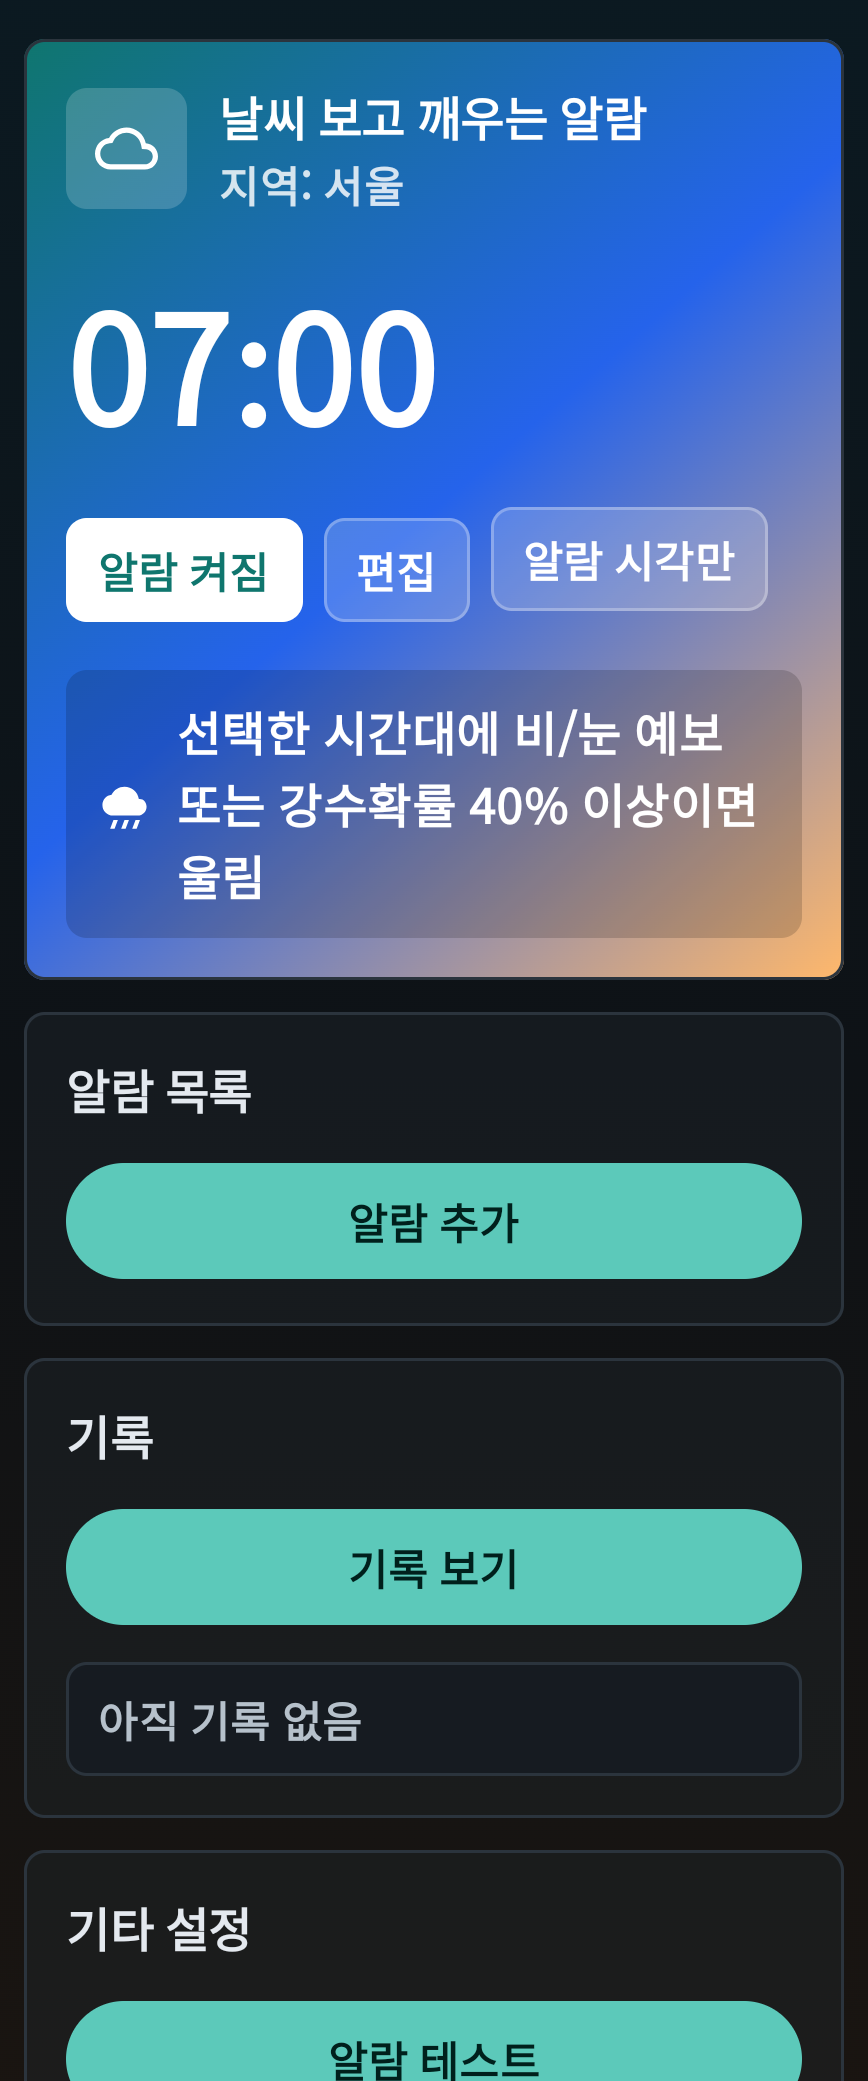
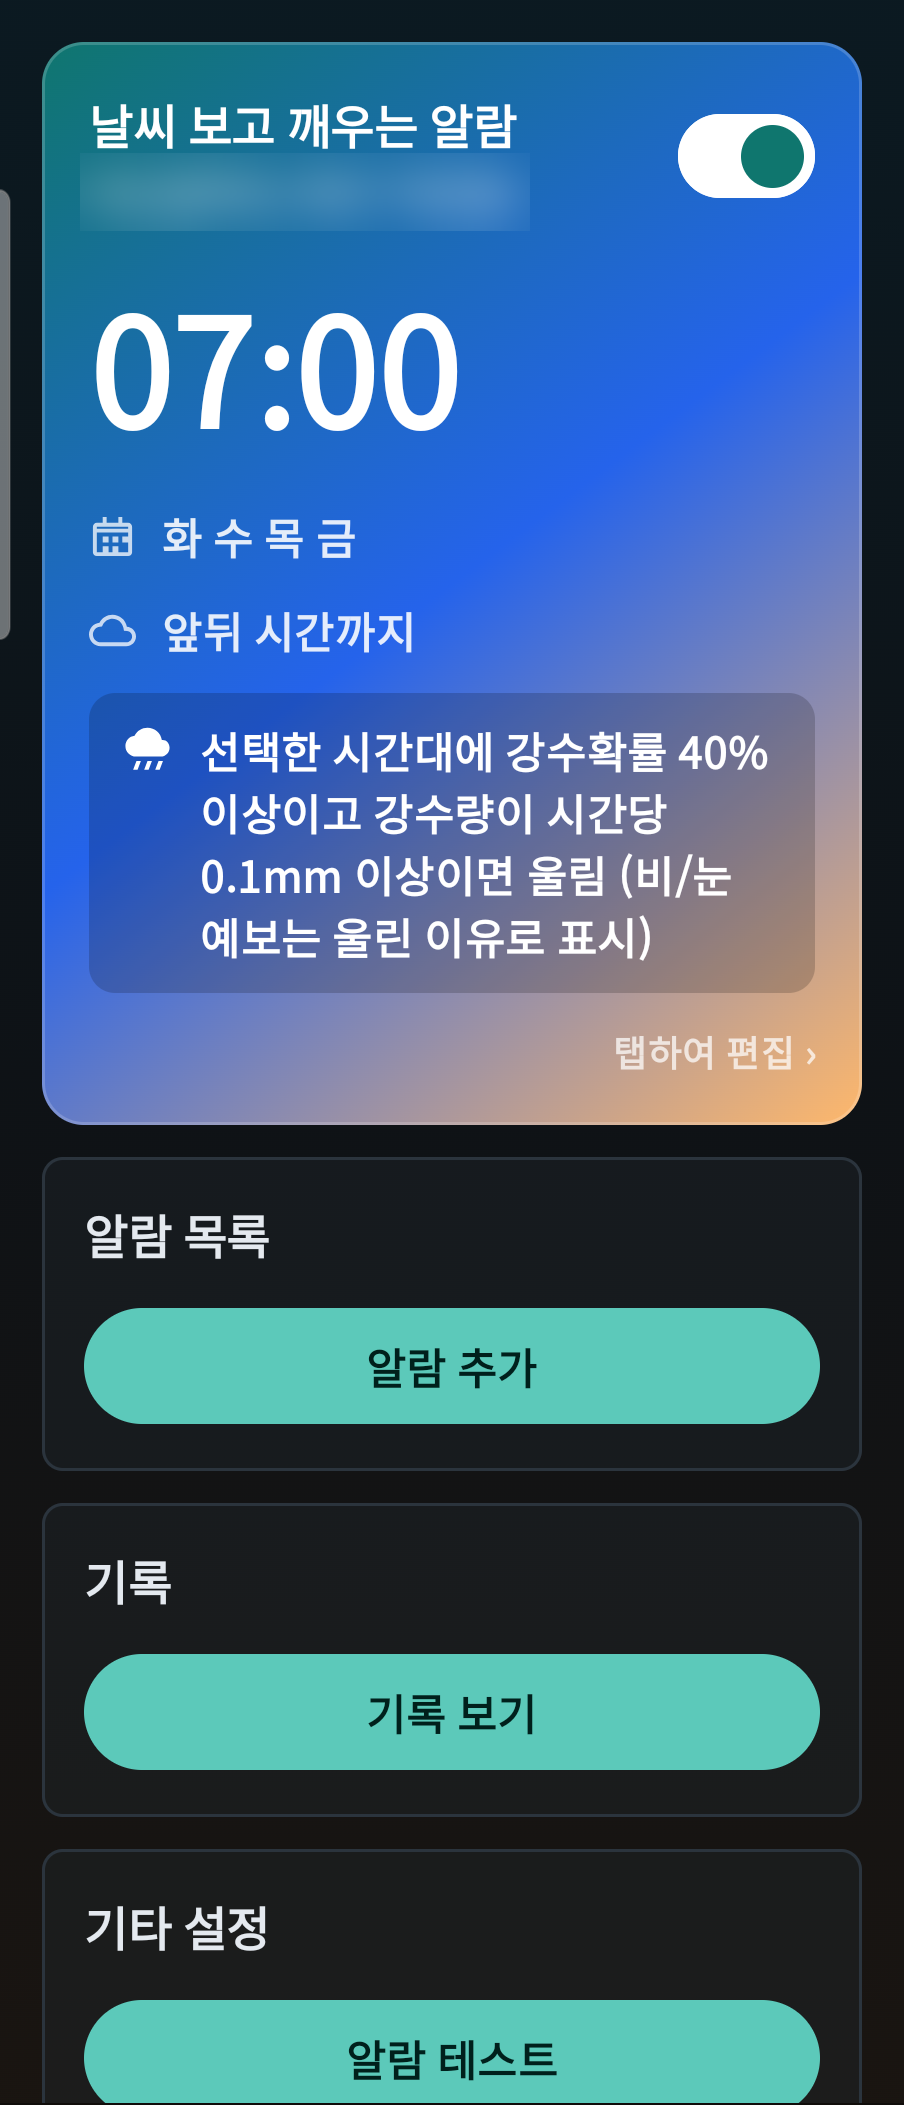
docs: consolidate screenshots and correct reschedule/limitations

diff --git a/README.md b/README.md
@@ -13,13 +13,13 @@ An Android alarm that rings only when the morning forecast meets your conditions
 
 <table>
   <tr>
-    <td align="center"><img src="store-assets/screenshots-clean/01-alarm-list-v0.3.5.png" width="200" alt="알람 목록"><br><sub>알람 목록</sub></td>
+    <td align="center"><img src="store-assets/screenshots-clean/01-alarm-list.png" width="200" alt="알람 목록"><br><sub>알람 목록</sub></td>
     <td align="center"><img src="store-assets/screenshots-clean/02-alarm-edit.png" width="200" alt="알람 편집"><br><sub>알람 편집</sub></td>
-    <td align="center"><img src="store-assets/screenshots-clean/03-time-picker-v0.3.5.png" width="200" alt="시간 선택"><br><sub>시간 선택</sub></td>
+    <td align="center"><img src="store-assets/screenshots-clean/03-time-picker.png" width="200" alt="시간 선택"><br><sub>시간 선택</sub></td>
   </tr>
   <tr>
     <td align="center"><img src="store-assets/screenshots-clean/04-location-search.png" width="200" alt="지역 설정"><br><sub>지역 설정</sub></td>
-    <td align="center"><img src="store-assets/screenshots-clean/05-weather-rules-v0.3.4.png" width="200" alt="날씨 조건 설정"><br><sub>날씨 조건 설정</sub></td>
+    <td align="center"><img src="store-assets/screenshots-clean/05-weather-rules.png" width="200" alt="날씨 조건 설정"><br><sub>날씨 조건 설정</sub></td>
     <td></td>
   </tr>
 </table>
@@ -32,7 +32,7 @@ An Android alarm that rings only when the morning forecast meets your conditions
 - **반복**: 요일을 반복하고, 한국 공휴일은 건너뛸 수 있습니다.
 - **기록**: 울렸거나 건너뛴 이유를 저장하고 최근 기록을 보여 줍니다.
 - **알람 신호**: 시스템 벨소리를 고르고, 진동과 스누즈를 씁니다.
-- **재부팅 대응**: 기기를 다시 켜면 알람을 다시 예약합니다.
+- **재예약**: 재부팅, 앱 업데이트, 시간대·시각 변경 뒤 알람을 다시 예약합니다.
 
 ## 구조
 
@@ -207,6 +207,8 @@ if (stale) {
 
 - 판정은 예보를 기준으로 하므로 실제 날씨와 다를 수 있습니다.
 - 제조사 절전 정책에 따라 사전 확인이 늦어질 수 있습니다 (사전 확인을 두 번 예약해 완화).
+- 미리 내린 판정은 6시간 동안만 씁니다. 판정이 없거나 그보다 오래됐으면 '날씨 확인 실패 시' 설정(울림 / 울리지 않음)을 따릅니다.
+- 프록시는 날씨 제공자가 모두 실패하면 캐시에 남은 예보(기본 설정에서 최대 12시간 지난 것)를 돌려줄 수 있습니다. 앱은 이 응답을 일반 예보와 구분하지 않으므로, 오래된 예보로 판정할 수 있습니다.
 - 앱 화면에는 날씨 데이터 출처 표시가 아직 없습니다.
 - 스토어에 출시하지 않았습니다 (서명된 APK 로 설치).
 
@@ -220,6 +222,7 @@ if (stale) {
 # Android (JDK 17, Android SDK 필요)
 .\gradlew.bat assembleDebug
 .\gradlew.bat testDebugUnitTest
+.\gradlew.bat lintDebug
 
 # 프록시 서버 주소를 넣어 빌드할 때
 .\gradlew.bat assembleRelease -PweatherProxyBaseUrl=https://<your-worker>.workers.dev

diff --git a/docs/alarm-flow.md b/docs/alarm-flow.md
@@ -49,6 +49,6 @@ sequenceDiagram
 | 6 | 강수확률·강수량 기준 충족 | 울림 (이유: 강수확률) |
 | 7 | 그 외 | 건너뜀 |
 
-3~6 은 모두 '강수확률·강수량 기준 충족'을 요구하므로, **울릴지 여부는 두 기준으로만 정해지고** 비·눈 선택과 예보 종류는 울림 이유에만 영향을 줍니다. 화면 안내 문구('비·눈 예보가 있거나 강수확률이 설정값 이상이면')와 다른 점은 README '한계'에 적었습니다.
+3~6 은 모두 '강수확률·강수량 기준 충족'을 요구하므로, **울릴지 여부는 두 기준으로만 정해지고** 비·눈 선택과 예보 종류는 울림 이유에만 영향을 줍니다. 0.3.5 부터 홈 화면 요약과 시간 선택 화면 문구도 이 판정(강수확률과 강수량 기준을 모두 충족)과 같은 내용으로 표시합니다.
 
 강수량 기준은 선택 안 함(0), 부슬비 0.1, 약한 비 2.0, 강한 비 10.0 mm/h 입니다.
